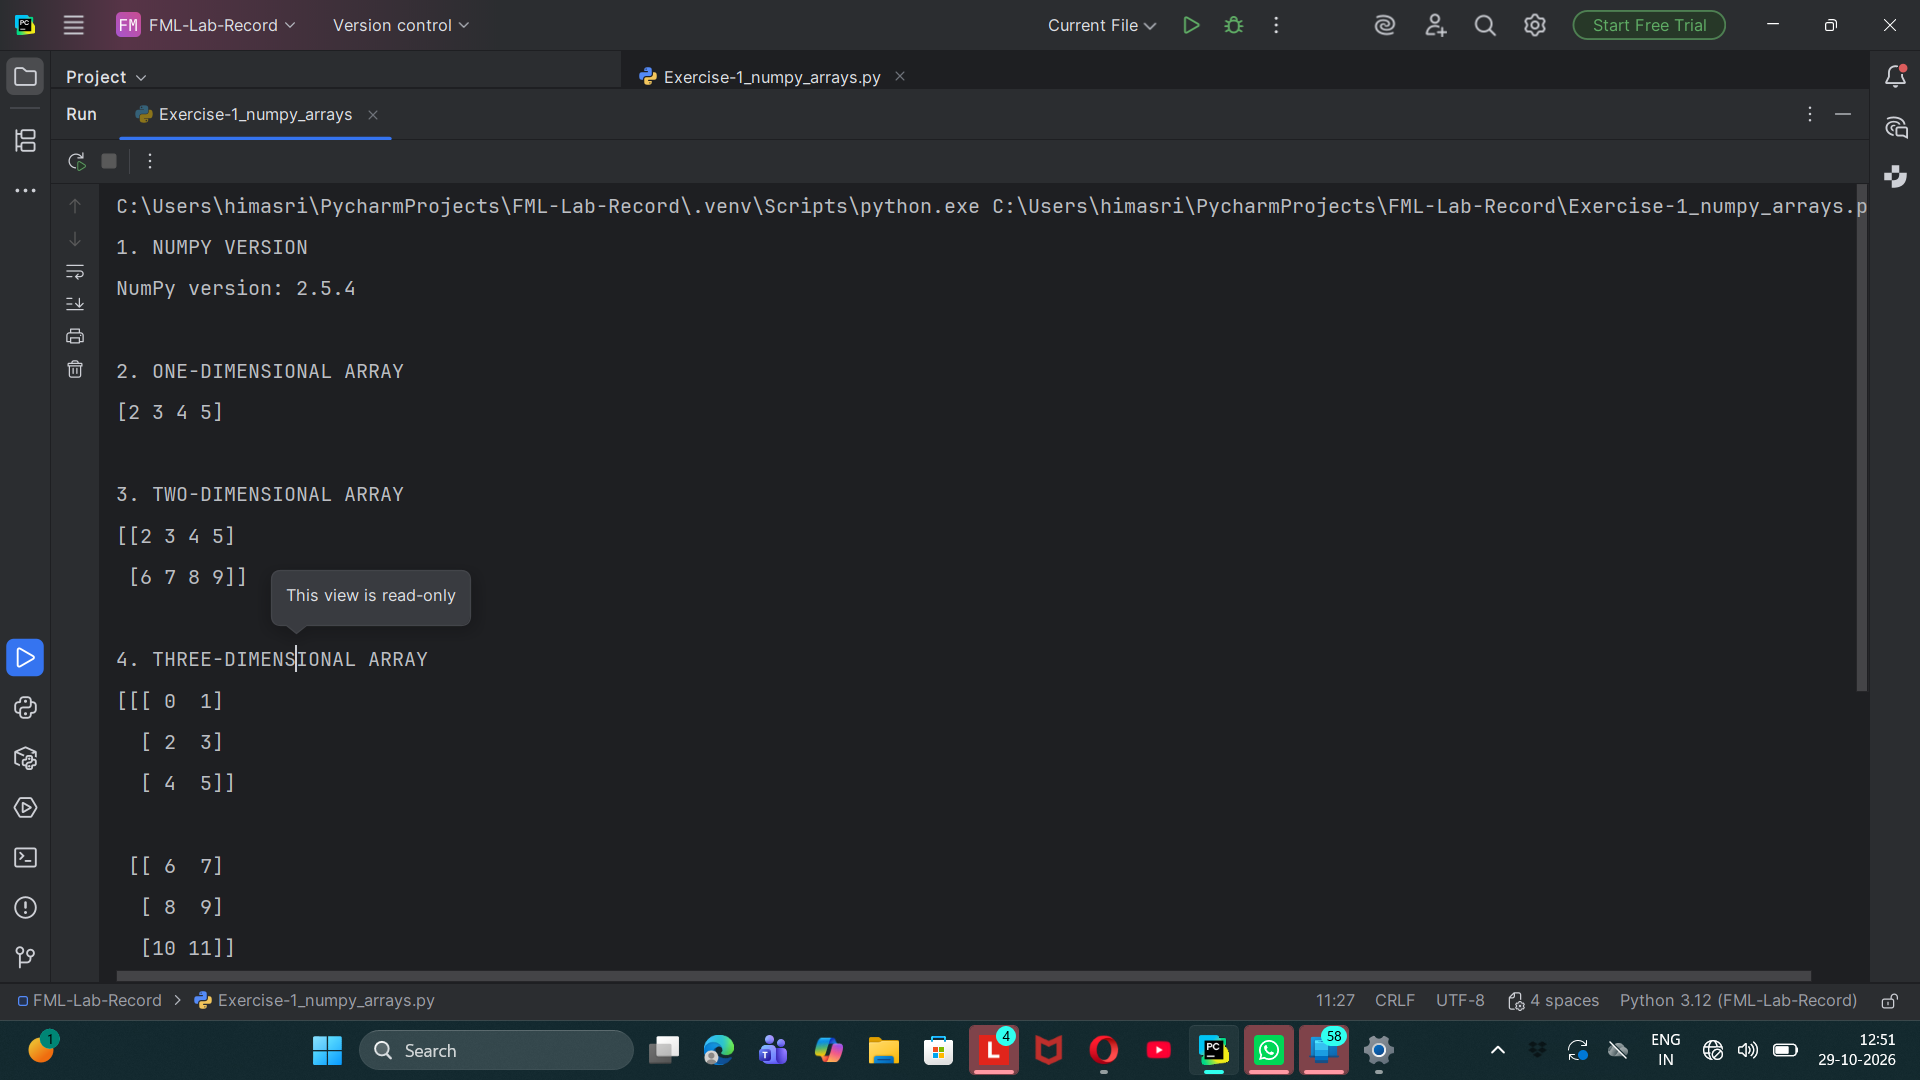
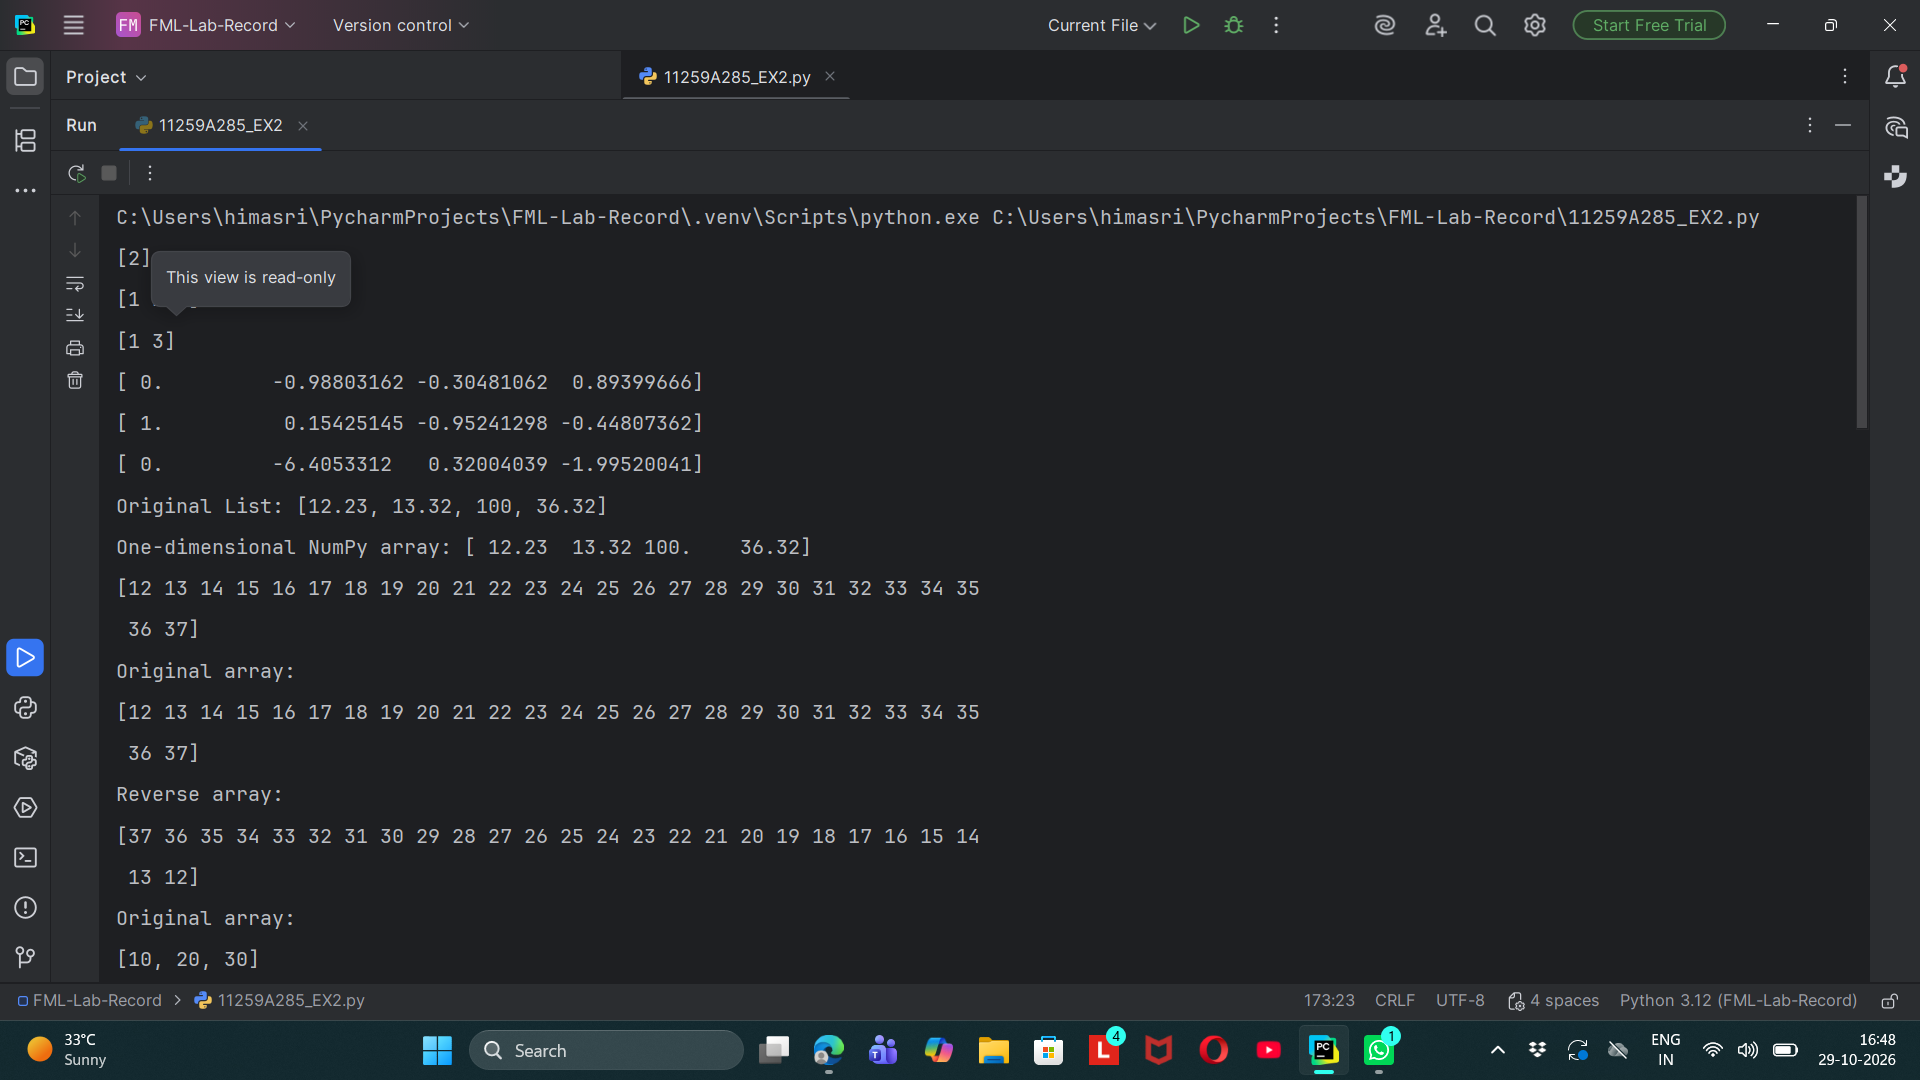
Add files via upload

diff --git a/11259A285_EXP1(3 to 13).py b/11259A285_EXP1(3 to 13).py
@@ -1,0 +1,173 @@
+import numpy as np
+
+arr = np.array([1, 2, 3, 4])
+
+print(arr[1:3:2])
+print(arr[:3])
+print(arr[::2])
+
+
+
+import numpy as np
+
+arr = np.array([0, 30, 60, 90])
+
+print(np.sin(arr))
+print(np.cos(arr))
+print(np.tan(arr))
+
+
+
+
+import numpy as np
+
+l = [12.23, 13.32, 100, 36.32]
+
+print("Original List:", l)
+
+a = np.array(l)
+
+print("One-dimensional NumPy array:", a)
+
+
+
+
+import numpy as np
+
+x = np.arange(12, 38)
+
+print(x)
+
+
+
+
+
+
+
+import numpy as np
+
+x = np.arange(12, 38)
+
+print("Original array:")
+print(x)
+
+print("Reverse array:")
+
+x = x[::-1]
+
+print(x)
+
+
+
+import numpy as np
+
+x = [10, 20, 30]
+
+print("Original array:")
+print(x)
+
+x = np.append(x, [[40, 50, 60], [70, 80, 90]])
+
+print("After appending values to the end of the array:")
+print(x)
+
+
+
+
+import numpy as np
+
+array1 = np.array([0, 10, 20, 40, 60])
+
+print("Array1:", array1)
+
+array2 = np.array([10, 30, 40])
+
+print("Array2:", array2)
+
+print("Common values between two arrays:")
+
+print(np.intersect1d(array1, array2))
+
+
+
+
+import numpy as np
+
+array1 = np.array([0, 10, 20, 40, 60, 80])
+
+print("Array1:", array1)
+
+array2 = np.array([10, 30, 40, 50, 70])
+
+print("Array2:", array2)
+
+print("Unique sorted values in either array:")
+
+print(np.union1d(array1, array2))
+
+
+
+
+
+import numpy as np
+
+a = np.array([[0, 1, 3], [5, 7, 9]])
+
+b = np.array([[0, 2, 4], [6, 8, 10]])
+
+c = np.concatenate((a, b), axis=1)
+
+print(c)
+
+
+import numpy as np
+
+fvalues = [0, 12, 45.21, 34, 99.91, 32]
+
+F = np.array(fvalues)
+
+print("Values in Fahrenheit degrees:")
+print(F)
+
+print("Values in Centigrade degrees:")
+print(np.round((5 * F / 9 - 5 * 32 / 9), 2))
+
+
+
+
+import numpy as np
+
+cvalues = [-17.78, -11.11, 7.34, 1.11, 37.73, 0]
+
+C = np.array(cvalues)
+
+print("Values in Centigrade degrees:")
+print(C)
+
+print("Values in Fahrenheit degrees:")
+print(np.round((9 * C / 5 + 32), 2))
+
+
+import numpy as np
+
+a = np.arange(9, dtype=float).reshape(3, 3)
+
+print("First Array:")
+print(a)
+
+b = np.array([10, 20, 30])
+
+print("Second Array:")
+print(b)
+
+print("Addition of Arrays:")
+print(np.add(a, b))
+
+print("Subtraction of Arrays:")
+print(np.subtract(a, b))
+
+print("Multiplication of Arrays:")
+print(np.multiply(a, b))
+
+print("Division of Arrays:")
+print(np.divide(a, b))
